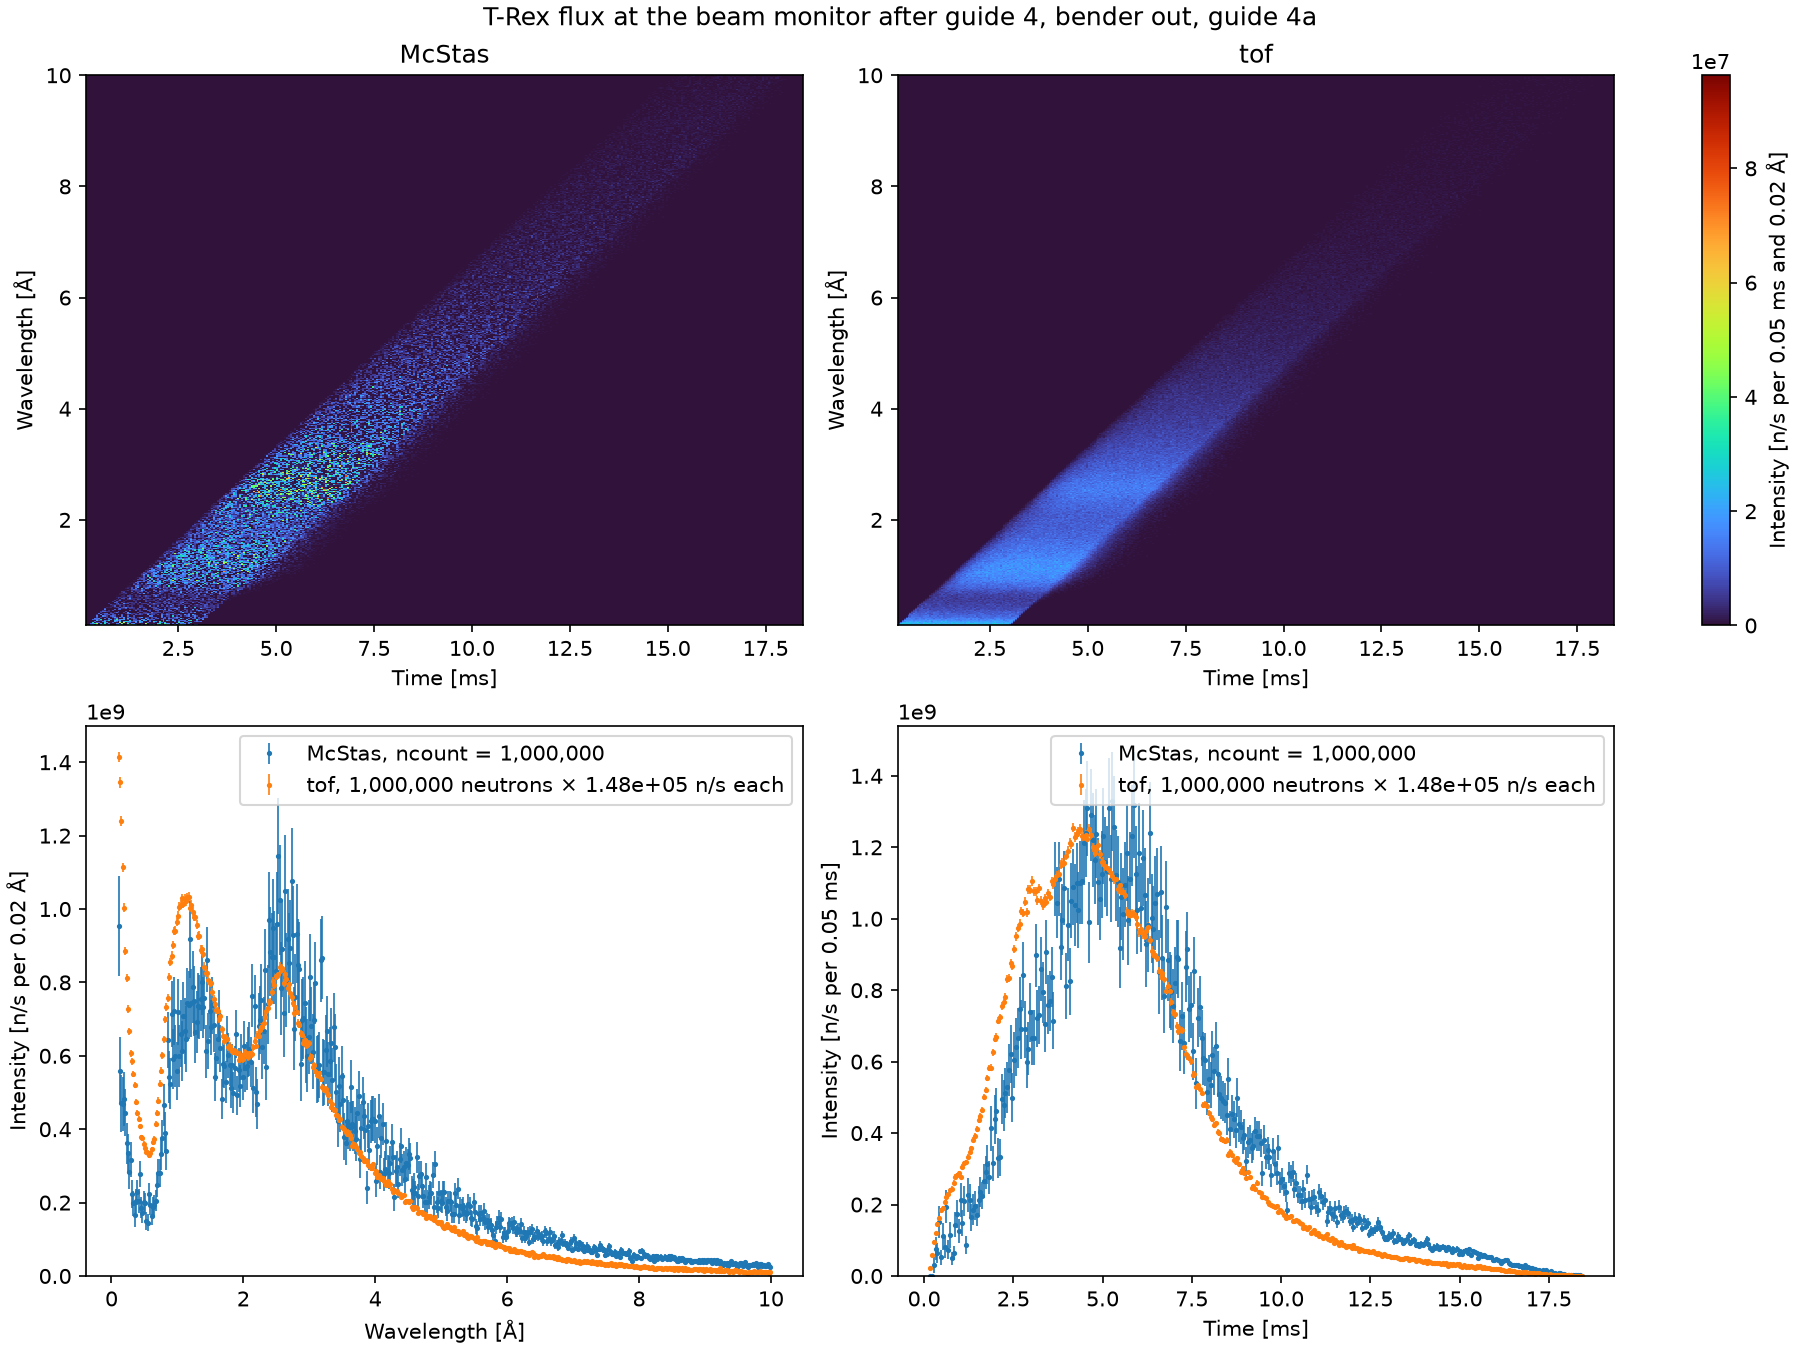
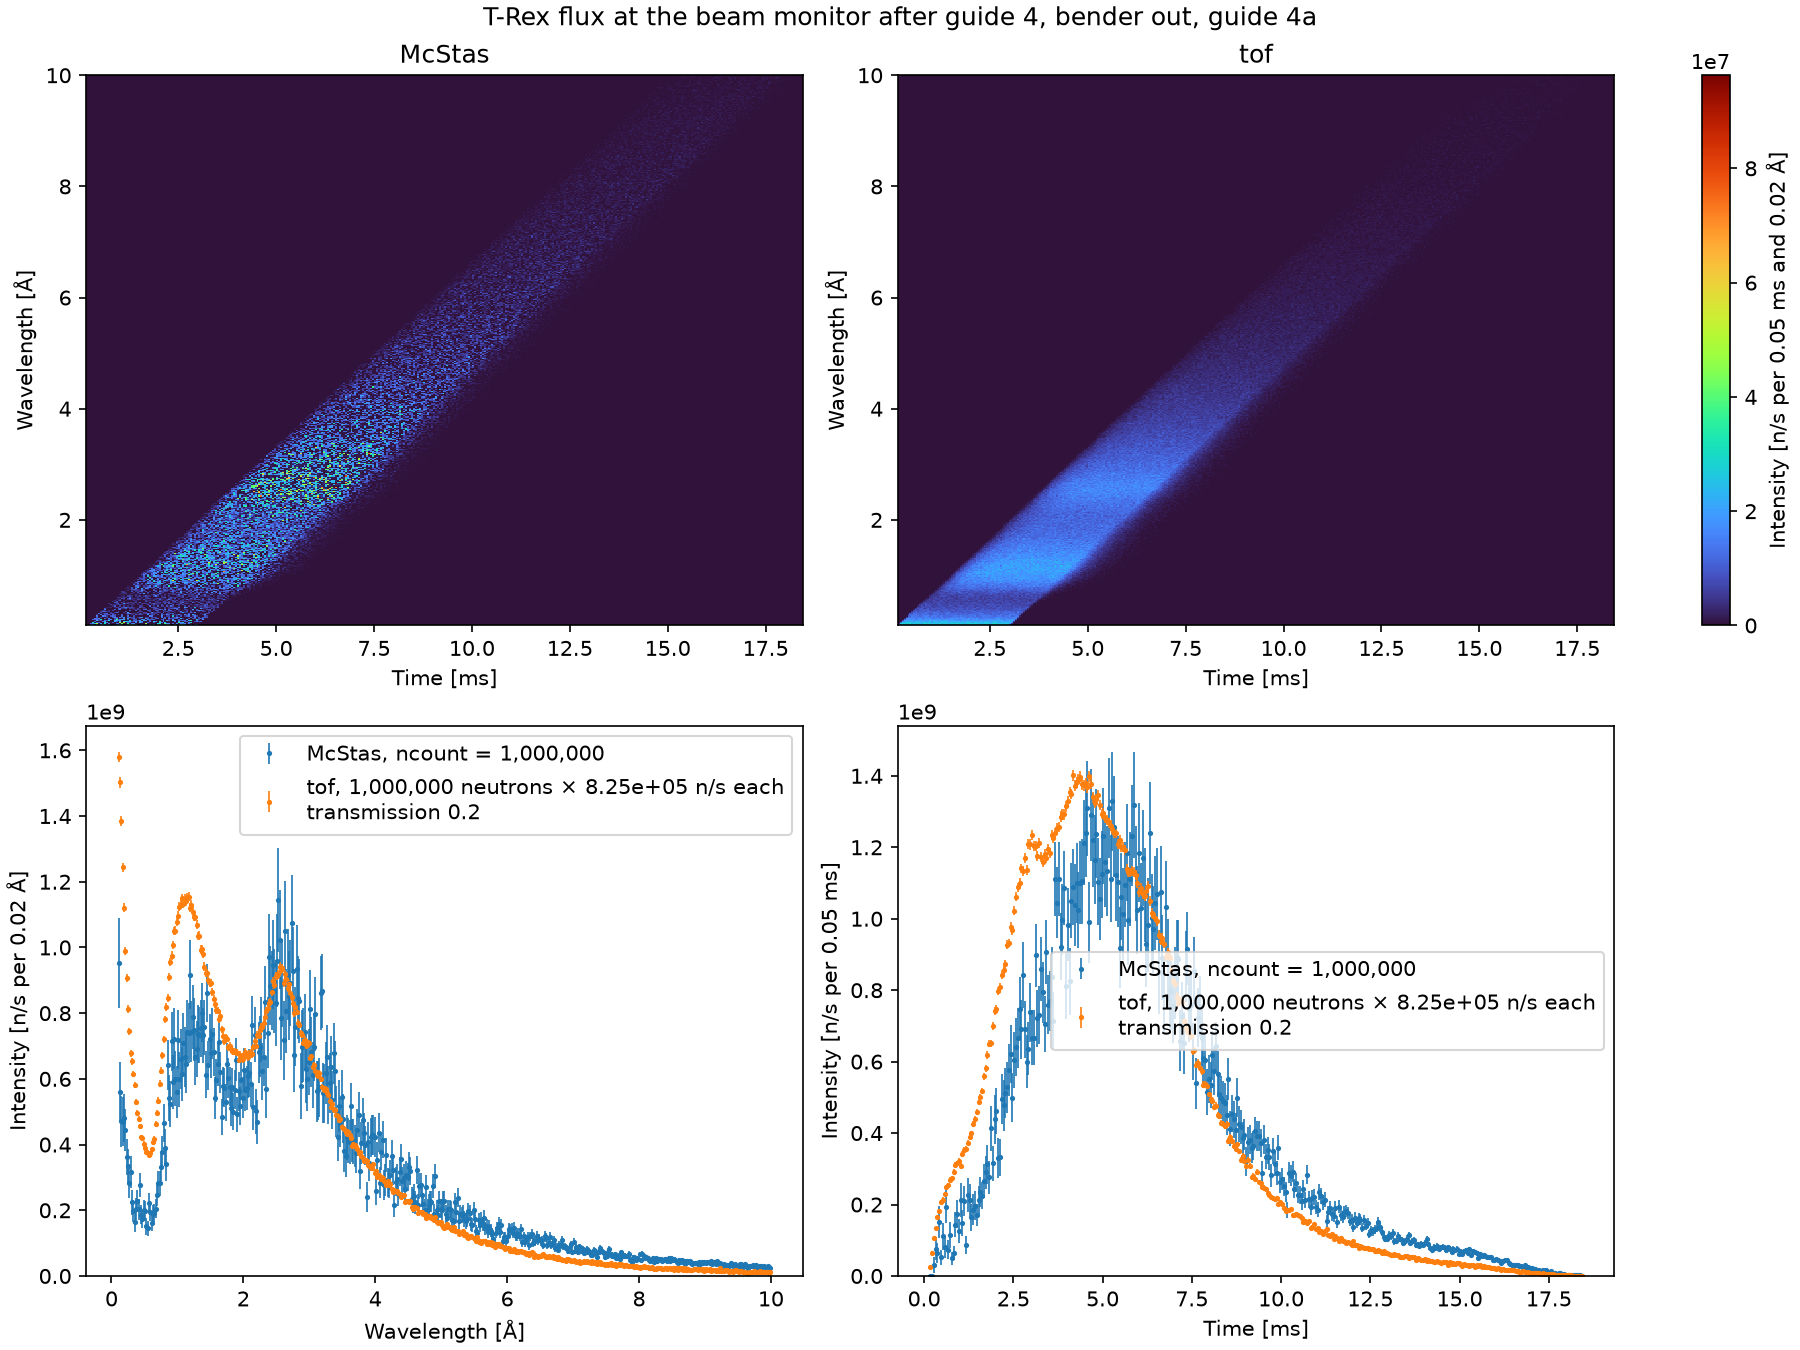
Show the intensity along the extraction guides, at a transmission of 0.2
main also runs McStasScript's diagram of each path, with the intensity
before each component, zoomed to 5e10 to 1.5e12 n/s; plt.show is held
back so that the figure is saved as the others. tof at the beam monitor
is scaled by a transmission of 0.2 by default. The Extraction page has the
two diagrams, the loss in each component, and the new scaling of tof.

diff --git a/src/mcdgs/diagnostics/trex/extraction.py b/src/mcdgs/diagnostics/trex/extraction.py
@@ -16,6 +16,7 @@ after the source, after guide 3 and at the exit of guide 4b. Run the module for 
 
 from dataclasses import dataclass
 from pathlib import Path
+from unittest.mock import patch
 
 import matplotlib.pyplot as plt
 import mcstasscript as ms
@@ -68,6 +69,10 @@ class ExtractionParams:
     b_rot: float = param(BENDER_ROTATION, "deg", "rotation of the cold neutron bender")
 
 
+# n/s: the range of the intensity axis of McStasScript's diagram, from the source to the beam
+# monitor on both paths, about 1e11 to 1e12 n/s at the defaults
+DIAGRAM_INTENSITY_LIMITS = (5e10, 1.5e12)
+
 DEFAULT_PARAMS = ExtractionParams()  # frozen, so one shared default is safe
 
 
@@ -118,6 +123,19 @@ class Extraction(Instrument):
         ]
 
 
+def _zoom_intensity(diagram: Figure, limits: tuple[float, float]) -> None:
+    """Zoom the intensity axis of McStasScript's diagram, and its ray count with it.
+
+    ``show_diagram`` takes no range for the intensity: its ``limits`` are those of a
+    ``variable``. The ray count keeps its ratio to the intensity, so both share their ticks.
+    """
+    intensity_ax = next(ax for ax in diagram.axes if ax.get_xlabel() == "Intensity [n/s]")
+    rays_ax = next(ax for ax in diagram.axes if ax.get_xlabel() == "Ray count")
+    rays_per_intensity = rays_ax.get_xlim()[1] / intensity_ax.get_xlim()[1]
+    intensity_ax.set_xlim(limits)
+    rays_ax.set_xlim(limits[0] * rays_per_intensity, limits[1] * rays_per_intensity)
+
+
 def _save(fig: Figure, path: Path, dpi: int) -> Path:
     """Save a figure, close it and return its path."""
     fig.savefig(path, dpi=dpi)
@@ -131,15 +149,16 @@ def main(
     ncount: float = 1e6,
     neutrons: int = 1_000_000,
     seed: int = 1,
-    transmission: float = 1.0,
+    transmission: float = 0.2,
 ) -> list[Path]:
     """Compare McStas and tof at the beam monitor, bender out and in, and save the figures.
 
-    McStas runs once per path, with McStasScript's diagnostics, and tof once: tof has no bender,
-    so the same run serves both. On each path, tof is scaled to the total of McStas at the source
-    monitor, and by ``transmission`` on top of it. Both figures of a
-    path, the diagnostics and the comparison,
-    ``trex_extraction_bender_out_diagnose.png`` and ``trex_extraction_bender_out.png``, or
+    McStas runs twice per path, once with McStasScript's diagnostics and once for its diagram
+    of the intensity along the instrument, and tof once: tof has no bender, so the same run serves
+    both. On each path, tof is scaled to the total of McStas at the source monitor, and by
+    ``transmission`` on top of it. The three figures of a path, the diagnostics, the diagram and
+    the comparison, ``trex_extraction_bender_out_diagnose.png``,
+    ``trex_extraction_bender_out_intensity.png`` and ``trex_extraction_bender_out.png``, or
     ``..._in``, go to ``out``.
 
     Parameters
@@ -154,12 +173,14 @@ def main(
         Seed of the random numbers of both models.
     transmission:
         The factor on tof at the beam monitor, on top of the scale of the source monitor: the
-        fraction of the beam the guides would let through, which tof does not model.
+        fraction of the beam the guides would let through, which tof does not model. 0.2 is
+        an estimate, close to the 0.18 McStas has with the bender out at the defaults.
 
     Returns
     -------
     :
-        The paths of the figures, bender out then in: the diagnostics, then the comparison.
+        The paths of the figures, bender out then in: the diagnostics, the diagram, then the
+        comparison.
     """
     extraction = Extraction()
 
@@ -171,7 +192,8 @@ def main(
 
     # McStasScript's diagnostics, the same for both paths: the beam after the source, guide 3
     # and guide 4b, its profile, wavelength against x, and its spectrum
-    diag = ms.Diagnostics(build_mcstas(extraction, input_path=default_input_dir(extraction)))
+    mcstas_instr = build_mcstas(extraction, input_path=default_input_dir(extraction))
+    diag = ms.Diagnostics(mcstas_instr)  # works on a copy: mcstas_instr is left as it is
     for component in ("source", "guide_3", "guide_4b"):
         # rays="all": a limited list stops early, which leaves the intensities too low
         diag.add_point(after=component, rays="all")  # pyright: ignore[reportArgumentType]
@@ -191,6 +213,24 @@ def main(
         diag.plot()  # draws on a new figure, which it does not return
         figure_folder = output_folder(out, folder)
         figures.append(_save(plt.gcf(), figure_folder / f"{run_name}_diagnose.png", dpi=100))
+
+        # McStasScript's diagram of the components, with the intensity and the rays before each:
+        # a McStas run of its own, in a folder of its own
+        mcstas_instr.set_parameters(bender_in=int(bender_in))
+        mcstas_instr.settings(
+            ncount=ncount,
+            suppress_output=True,
+            mpi="auto",
+            seed=seed,
+            output_path=str(run_folder(default_output_dir(), f"{run_name}_intensity", "diagram")),
+        )
+        # show_diagram ends in plt.show(), which in a window waits for it to close, and the
+        # figure goes with it: hold it back, to save the figure as the others
+        with patch.object(plt, "show"):
+            mcstas_instr.show_diagram(analysis=True)
+        diagram = plt.gcf()
+        _zoom_intensity(diagram, DIAGRAM_INTENSITY_LIMITS)
+        figures.append(_save(diagram, figure_folder / f"{run_name}_intensity.png", dpi=100))
 
         # tof's counts are scaled to the total of McStas at the source monitor, in n/s, and by
         # the transmission on top of it at the beam monitor

diff --git a/docs/instruments/trex/extraction.md b/docs/instruments/trex/extraction.md
@@ -7,11 +7,13 @@ is T-Rex up to the beam monitor after guide 4: the source, the
 [two paths](details.md#two-paths-through-guide-4), the thermal guide 4a with the bender out and
 the bender and the cold guide 4b with it in. It has the same components as `TRex`, with the same
 values, but for the band: its source keeps the widest band, 0.1 to 10 Å, and its beam monitor
-that band too, while those of `TRex` follow `lambda0`.
+that band too, while those of `TRex` follow `lambda0`. It also has the `source_monitor` of
+[Source](source.md), at the entrance of guide 1.
 
-`main` runs McStas once per path and tof once, and makes two figures of each path: McStasScript's
-diagnostics along the guides, and McStas and tof side by side at the beam monitor. The figures are
-`main` at its defaults: 1e6 McStas neutrons per path, 1e6 tof neutrons and seed 1.
+`main` runs McStas twice per path and tof once, and makes three figures of each path:
+McStasScript's diagnostics along the guides, McStasScript's diagram of the intensity before each
+component, and McStas and tof side by side at the beam monitor. The figures are `main` at its
+defaults: 1e6 McStas neutrons per run, 1e6 tof neutrons and seed 1.
 
 ## Beam along the guides
 
@@ -37,6 +39,43 @@ the thermal peak is mostly gone and the cold peak stays.
 The maps have 100 × 100 bins, so at 1e6 neutrons each bin holds only a few rays and the maps are
 grainy. The spectra, on one axis, are smooth.
 
+## Intensity along the guides
+
+McStasScript's diagram lists the components in beam order, with arrows from each to the one it is
+placed relative to. Next to it, the black line is the intensity just before each component, in
+n/s, and the dashed green line the number of rays, both on a log scale zoomed to 5e10 to
+1.5e12 n/s. Each step of the line is what one component loses. It is a McStas run of its own,
+which adds a monitor before every component; those monitors are 100 m wide, so they count every
+ray, inside an opening or not.
+
+**Bender out**:
+
+![The components and the intensity before each, with the bender out](figures/trex_extraction_bender_out_intensity.png)
+
+**Bender in**:
+
+![The components and the intensity before each, with the bender in](figures/trex_extraction_bender_in_intensity.png)
+
+| Lost in | Bender out | Bender in | Intensity after it |
+| ------- | ---------- | --------- | ------------------ |
+| guide 1 | 51 % | 51 % | 4.58e11 n/s |
+| guide 2 | 36 % | 36 % | 2.92e11 n/s |
+| guide 3 | 41 % | 41 % | 1.73e11 n/s |
+| guide 4a | 14 % | | 1.49e11 n/s |
+| bender | | 36 % | 1.12e11 n/s |
+| guide 4b | | 6 % | 1.05e11 n/s |
+
+The beam leaves the source at 9.38e11 n/s, all it sends towards guide 1, and passes the source
+monitor unchanged. Guides 1 to 3 take most of it: after guide 3, 18 % is left, on both paths.
+With the bender out, guide 4a takes 14 % more, and 1.49e11 n/s reaches the beam monitor, 16 % of
+the beam before guide 1. With the bender in, the components of the other path are skipped, so their
+rows are empty or flat. The bender takes 36 % and guide 4b 6 %, and 1.05e11 n/s reaches the beam
+monitor, 11 %.
+
+The 51 % of guide 1 includes the beam that misses its opening. The source monitor, which has that
+opening, sees 8.25e11 n/s, so about 12 % of the 9.38e11 never enters guide 1. From the opening of
+guide 1, 18 % reaches the beam monitor with the bender out and 13 % with it in.
+
 ## McStas and tof at the beam monitor
 
 The beam monitor is in the gap after guide 4, at 5.902 m, 0.06 m wide and 0.0463 m high. It
@@ -47,22 +86,25 @@ see [Source](source.md) for how the two are read and compared. With 1e6 neutrons
 that many bins, the McStas map and spectra are grainy.
 
 tof has no guides and no bender: every neutron of its pulse reaches the monitor, at the time of
-its straight flight from the source. Its counts are scaled to the McStas total at the monitor, on
-each path, so both have the same total and the figure compares their shapes. What differs is
-what guides 1 to 4 do to the beam.
+its straight flight from the source. Its counts are scaled where both models see the same beam,
+at the source monitor, to the McStas total there: 8.25e5 n/s per tof neutron. At the beam monitor
+they are scaled again by a `transmission` of 0.2, the argument of `main`, for what the guides
+would let through. That is close to the 18 % and 13 % of McStas above, so where McStas is above
+tof the guides pass more than 0.2 of the beam, and where it is below, less.
 
-**Bender out**, 1.48e11 n/s at the monitor, 1.48e5 n/s per tof neutron:
+**Bender out**, 1.48e11 n/s at the monitor:
 
 ![McStas and tof at the beam monitor with the bender out](figures/trex_extraction_bender_out.png)
 
-**Bender in**, 1.04e11 n/s at the monitor, 1.04e5 n/s per tof neutron:
+**Bender in**, 1.04e11 n/s at the monitor:
 
 ![McStas and tof at the beam monitor with the bender in](figures/trex_extraction_bender_in.png)
 
-With the bender out, McStas keeps both peaks of the source but has fewer short wavelengths and
-more long ones than tof: the guides pass a long wavelength at a larger angle, so more of it
-reaches the monitor. Below 0.3 Å McStas has a fraction of tof's peak. With the bender in, McStas
-has almost nothing below about 1.5 Å and peaks near 2.5 Å, and its time profile peaks about
+At the cold peak, 2.6 Å, McStas and tof agree on both paths: the guides pass about 0.2 of it.
+Above about 4 Å McStas is above tof, since the guides pass a long wavelength at a larger angle,
+so more of it reaches the monitor. With the bender out, McStas is below tof at the thermal peak,
+1.1 Å, where the guides pass about 12 %, and below 0.3 Å it has a fraction of tof's peak. With
+the bender in, McStas has almost nothing below about 1.5 Å, and its time profile peaks about
 1.5 ms later than tof's, since the beam is made of longer, slower wavelengths.
 
 ## Making the figures
@@ -74,9 +116,11 @@ them again, with the other files of the T-Rex pages. To make them yourself, run:
 pixi run python -m mcdgs.diagnostics.trex.extraction
 ```
 
-Each path's two figures go to its McStas run folder, `mcstas_output/trex_extraction_bender_out/`
-and `..._in/`. That folder also holds McStasScript's event lists of the three diagnostics
-positions, about 190 MB for each path at 1e6 neutrons. Call `main` with other numbers for finer
+Each path's three figures go to the folder of its run with the diagnostics,
+`mcstas_output/trex_extraction_bender_out/` and `..._in/`. That folder also holds McStasScript's
+event lists of the three diagnostics positions, about 190 MB for each path at 1e6 neutrons. The
+run of the diagram has a folder of its own, `mcstas_output/trex_extraction_bender_out_intensity/`
+and `..._in_intensity/`. Call `main` with other numbers for finer
 figures:
 
 ```bash
